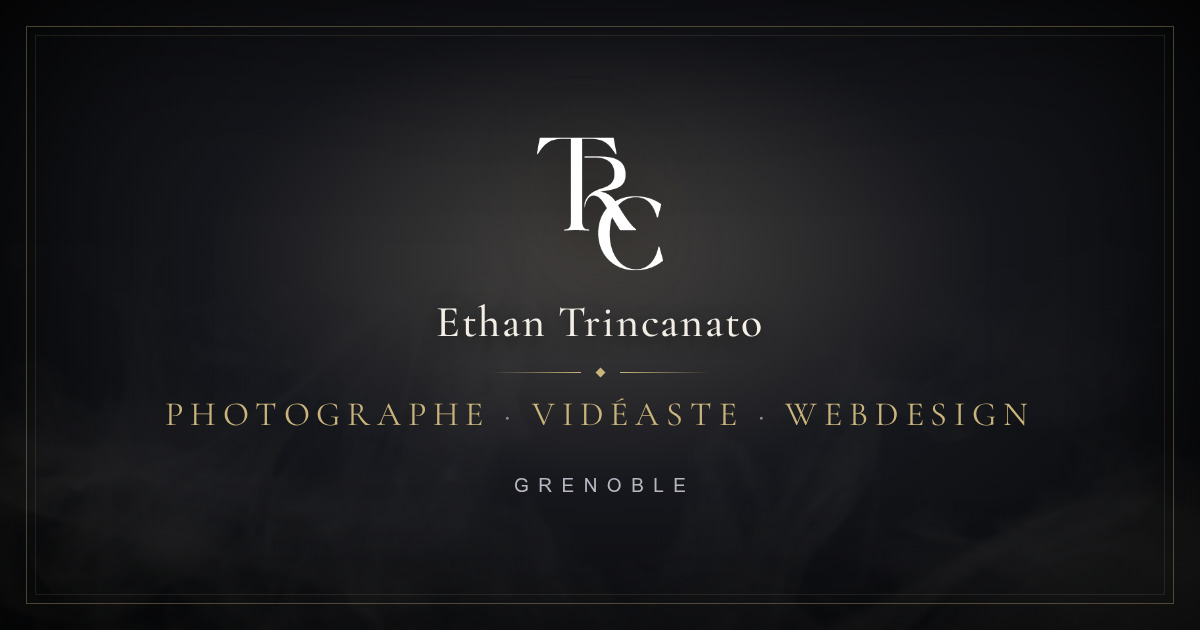
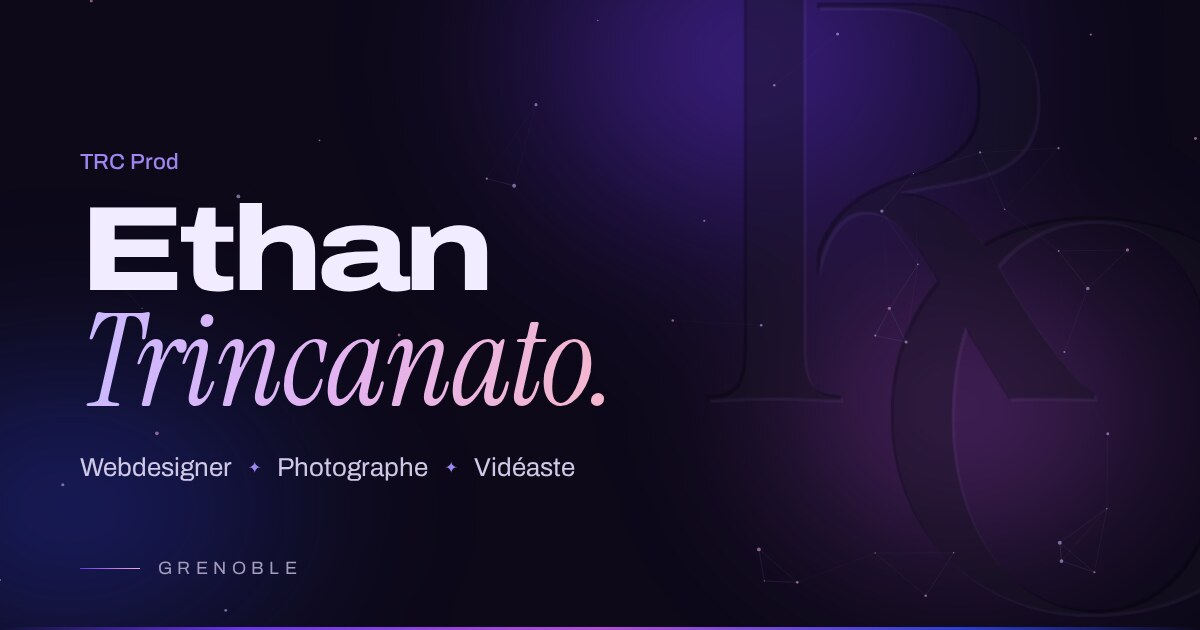
Image de partage refaite dans la DA violette (nom, métiers, TRC gravé, constellation)

diff --git a/index.html b/index.html
@@ -15,7 +15,7 @@
   <meta property="og:title" content="TRC Prod — Ethan Trincanato | Photographe, Vidéaste & Webdesign à Grenoble">
   <meta property="og:description" content="Photo, vidéo et sites web pour marques, commerces et particuliers : publicité, packshot, mariage, événementiel.">
   <meta property="og:url" content="https://trc-prod.vercel.app/">
-  <meta property="og:image" content="https://trc-prod.vercel.app/assets/img/og-cover.jpg">
+  <meta property="og:image" content="https://trc-prod.vercel.app/assets/img/og-cover.jpg?v=2">
   <meta property="og:image:width" content="1200">
   <meta property="og:image:height" content="630">
   <meta property="og:image:type" content="image/jpeg">
@@ -30,7 +30,7 @@
     "alternateName": "TRC Prod — Ethan Trincanato",
     "description": "Studio audiovisuel d'Ethan Trincanato à Grenoble : photo et vidéo pour marques, commerces et particuliers (publicité, packshot, mariage, événementiel).",
     "url": "https://trc-prod.vercel.app/",
-    "image": "https://trc-prod.vercel.app/assets/img/og-cover.jpg",
+    "image": "https://trc-prod.vercel.app/assets/img/og-cover.jpg?v=2",
     "email": "trcprod38@gmail.com",
     "founder": { "@type": "Person", "name": "Ethan Trincanato" },
     "address": { "@type": "PostalAddress", "addressLocality": "Grenoble", "addressCountry": "FR" },

diff --git a/brief.html b/brief.html
@@ -11,11 +11,11 @@
 <meta property="og:title" content="Parlons de votre futur site — TRC Prod">
 <meta property="og:description" content="Quelques questions pour cerner votre projet de site internet. 3 à 5 minutes, sans inscription.">
 <meta property="og:url" content="https://trc-prod.vercel.app/brief.html">
-<meta property="og:image" content="https://trc-prod.vercel.app/assets/img/og-cover.jpg">
+<meta property="og:image" content="https://trc-prod.vercel.app/assets/img/og-cover.jpg?v=2">
 <meta name="twitter:card" content="summary_large_image">
 <meta name="twitter:title" content="Parlons de votre futur site — TRC Prod">
 <meta name="twitter:description" content="Quelques questions pour cerner votre projet de site internet. 3 à 5 minutes.">
-<meta name="twitter:image" content="https://trc-prod.vercel.app/assets/img/og-cover.jpg">
+<meta name="twitter:image" content="https://trc-prod.vercel.app/assets/img/og-cover.jpg?v=2">
 <link rel="icon" href="favicon.svg">
 <link rel="alternate icon" href="assets/brand/logo-black.png">
 <link rel="preconnect" href="https://fonts.googleapis.com">

diff --git a/about.html b/about.html
@@ -13,7 +13,7 @@
   <meta property="og:title" content="À propos — TRC Prod | Ethan Trincanato">
   <meta property="og:description" content="Photographe et vidéaste basé à Grenoble. Photo et vidéo pour marques, commerces et particuliers.">
   <meta property="og:url" content="https://trc-prod.vercel.app/about.html">
-  <meta property="og:image" content="https://trc-prod.vercel.app/assets/img/og-cover.jpg">
+  <meta property="og:image" content="https://trc-prod.vercel.app/assets/img/og-cover.jpg?v=2">
   <meta property="og:image:width" content="1200">
   <meta property="og:image:height" content="630">
   <meta property="og:image:type" content="image/jpeg">

diff --git a/photo.html b/photo.html
@@ -13,7 +13,7 @@
   <meta property="og:title" content="Photographie — TRC Prod | Ethan Trincanato">
   <meta property="og:description" content="Portfolio photo : packshot, publicité, mariage, événementiel, automobile et immobilier.">
   <meta property="og:url" content="https://trc-prod.vercel.app/photo.html">
-  <meta property="og:image" content="https://trc-prod.vercel.app/assets/img/og-cover.jpg">
+  <meta property="og:image" content="https://trc-prod.vercel.app/assets/img/og-cover.jpg?v=2">
   <meta property="og:image:width" content="1200">
   <meta property="og:image:height" content="630">
   <meta property="og:image:type" content="image/jpeg">

diff --git a/web.html b/web.html
@@ -13,7 +13,7 @@
   <meta property="og:title" content="Sites web · TRC Prod | Ethan Trincanato">
   <meta property="og:description" content="Sites vitrines conçus de A à Z : design, textes, photos, mise en ligne et référencement.">
   <meta property="og:url" content="https://trc-prod.vercel.app/web.html">
-  <meta property="og:image" content="https://trc-prod.vercel.app/assets/img/og-cover.jpg">
+  <meta property="og:image" content="https://trc-prod.vercel.app/assets/img/og-cover.jpg?v=2">
   <meta property="og:image:width" content="1200">
   <meta property="og:image:height" content="630">
   <meta property="og:image:type" content="image/jpeg">

diff --git a/contact.html b/contact.html
@@ -13,7 +13,7 @@
   <meta property="og:title" content="Contact — TRC Prod | Ethan Trincanato">
   <meta property="og:description" content="Parlez-moi de votre projet photo ou vidéo. Je vous réponds rapidement.">
   <meta property="og:url" content="https://trc-prod.vercel.app/contact.html">
-  <meta property="og:image" content="https://trc-prod.vercel.app/assets/img/og-cover.jpg">
+  <meta property="og:image" content="https://trc-prod.vercel.app/assets/img/og-cover.jpg?v=2">
   <meta property="og:image:width" content="1200">
   <meta property="og:image:height" content="630">
   <meta property="og:image:type" content="image/jpeg">

diff --git a/video.html b/video.html
@@ -13,7 +13,7 @@
   <meta property="og:title" content="Vidéo — TRC Prod | Ethan Trincanato">
   <meta property="og:description" content="Films de marque, publicités, contenus réseaux sociaux et événements.">
   <meta property="og:url" content="https://trc-prod.vercel.app/video.html">
-  <meta property="og:image" content="https://trc-prod.vercel.app/assets/img/og-cover.jpg">
+  <meta property="og:image" content="https://trc-prod.vercel.app/assets/img/og-cover.jpg?v=2">
   <meta property="og:image:width" content="1200">
   <meta property="og:image:height" content="630">
   <meta property="og:image:type" content="image/jpeg">

diff --git a/services.html b/services.html
@@ -13,7 +13,7 @@
   <meta property="og:title" content="Services — TRC Prod | Ethan Trincanato">
   <meta property="og:description" content="Photographie, vidéo et direction artistique à Grenoble.">
   <meta property="og:url" content="https://trc-prod.vercel.app/services.html">
-  <meta property="og:image" content="https://trc-prod.vercel.app/assets/img/og-cover.jpg">
+  <meta property="og:image" content="https://trc-prod.vercel.app/assets/img/og-cover.jpg?v=2">
   <meta property="og:image:width" content="1200">
   <meta property="og:image:height" content="630">
   <meta property="og:image:type" content="image/jpeg">
